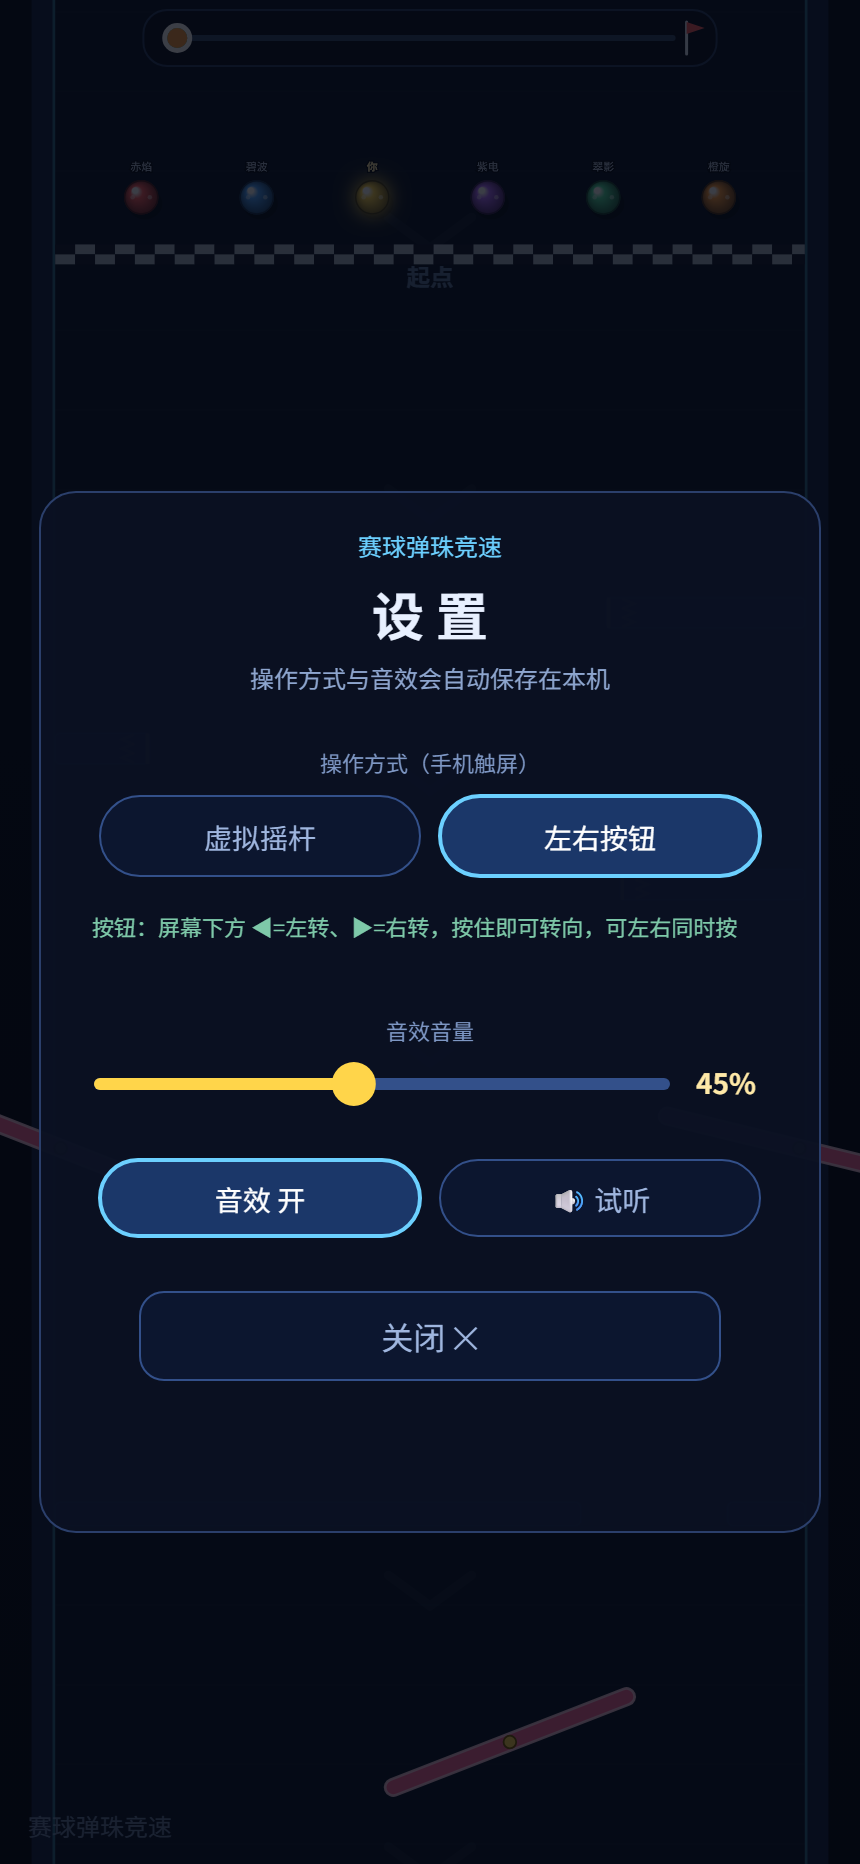
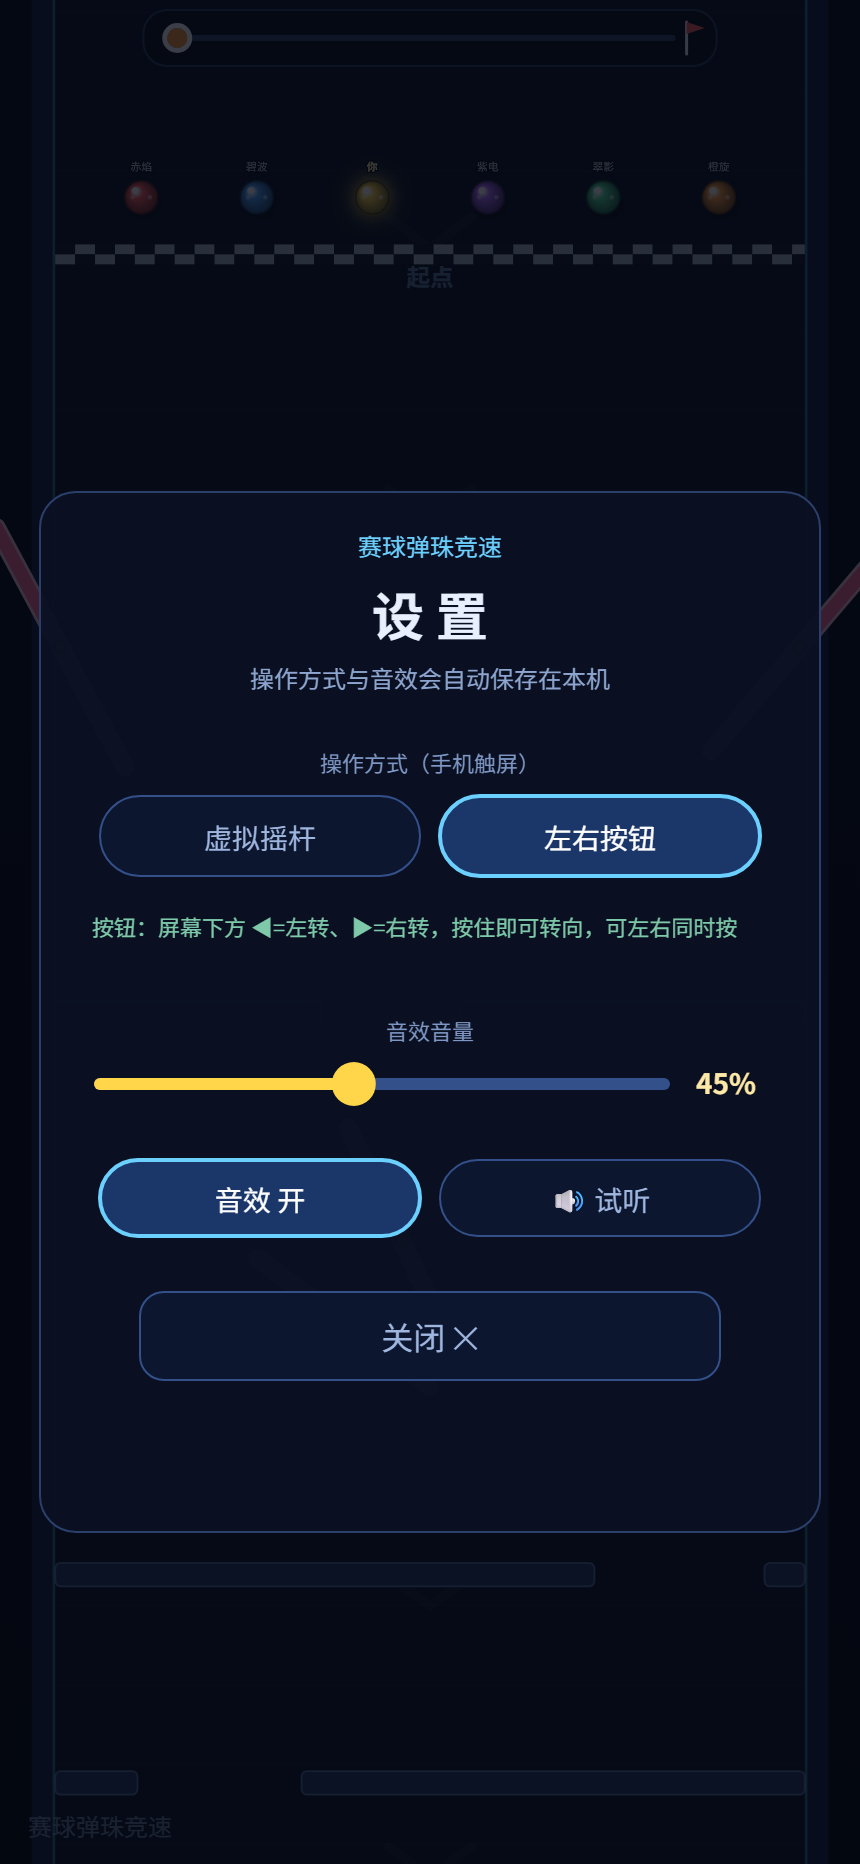
移除刹车：摇杆只控制左右转向，键盘与按钮不再减速

diff --git a/weapp/game.js b/weapp/game.js
@@ -720,16 +720,14 @@ function physics(dt) {
         const pi = 0;
         const j = joys[pi];
         let sx = (k.right - k.left);
-        let brake = k.up;
         if (settings.ctrl === 'btn') {
           const bs = btnState[pi];
           if (bs.right > bs.left) sx = 1; else if (bs.left > bs.right) sx = -1;
-        } else if (j.pid !== null) {
-          if (Math.abs(j.x) > 0.12) sx = j.x;
-          if (j.y < -0.45) brake = true;
+        } else if (j.pid !== null && Math.abs(j.x) > 0.12) {
+          sx = j.x;
         }
         fx = sx * 820;
-        fy = GY - (brake ? 520 : 0);
+        fy = GY;                       // 无刹车：始终向下加速
       } else { const f = aiForce(b); fx = f[0]; fy = f[1]; }
     } else { fy = GY * 0.25; }
     b.vx += fx * dt; b.vy += fy * dt;
@@ -1717,7 +1715,7 @@ function drawSettingsUI() {
   uiButton(bx0 + bw + 10, py + 152, bw, 40, '左右按钮', settings.ctrl === 'btn', 'ctrl', 'btn');
   const desc = settings.ctrl === 'btn'
     ? '按钮：屏幕下方 ◀=左转、▶=右转，按住即可转向，可左右同时按'
-    : '摇杆：左下角推动转向（推得越满转得越急），上推为刹车';
+    : '摇杆：左下角左右推动转向，推得越满转得越急';
   wrapText(desc, px + 26, py + 222, pw - 52, 17, '11px sans-serif', '#7ec9a9');
 
   textCentered('音效音量', cx, py + 274, '11px sans-serif', '#7e97c4');
@@ -1758,8 +1756,9 @@ function joyMove(j, x, y) {
   const dx = x - j.bx, dy = y - j.by;
   const d = Math.hypot(dx, dy) || 1;
   const cl = Math.min(d, JOY_R);
-  j.dx = dx / d * cl; j.dy = dy / d * cl;
-  j.x = j.dx / JOY_R; j.y = j.dy / JOY_R;
+  j.dx = dx / d * cl;
+  j.dy = 0;                        // 只有左右转向，没有上下刹车
+  j.x = j.dx / JOY_R; j.y = 0;
 }
 function btnSlots() {
   if (settings.ctrl !== 'btn') return false;
@@ -1951,7 +1950,7 @@ function render() {
     ctx.textAlign = 'center'; ctx.fillStyle = 'rgba(195,211,239,0.85)';
     ctx.font = '13px sans-serif';
     const tip = mode === 'spectate' ? '点按排名或画面切换视角'
-      : '左右转向 · 上推刹车 · 撞开对手抢线！';
+      : '左右转向 · 撞开对手抢线！';
     ctx.fillText(tip, cw / 2, ch - 58);
   }
   if (touchSeen && settings.ctrl !== 'btn' && !settingsOpen && !resultsVisible) drawJoysticks();

diff --git a/weapp/README.md b/weapp/README.md
@@ -33,7 +33,7 @@ H5 单文件版仍在仓库根目录 `index.html`，两者玩法一致。
 - 关卡模式每关约 1 分钟，难度从噩梦起步逐关递增，通关解锁下一关（进度本地保存）
 - 邀请好友：分享带有赛道种子的卡片，好友在完全相同的赛道上比用时
 - 关卡模式固定 6 颗球；好友排行榜展示好友已通关数与用时（微信开放数据域）
-- **默认左右按钮操作**（屏幕下方 ◀ ▶），可在设置里切换为**虚拟摇杆**（上推刹车）
+- **默认左右按钮操作**（屏幕下方 ◀ ▶），可在设置里切换为**虚拟摇杆**（只控制左右转向，无刹车）
 - 设置里可调音效音量、静音；全部保存在本机
 
 ## 已知限制 / 待真机验证
